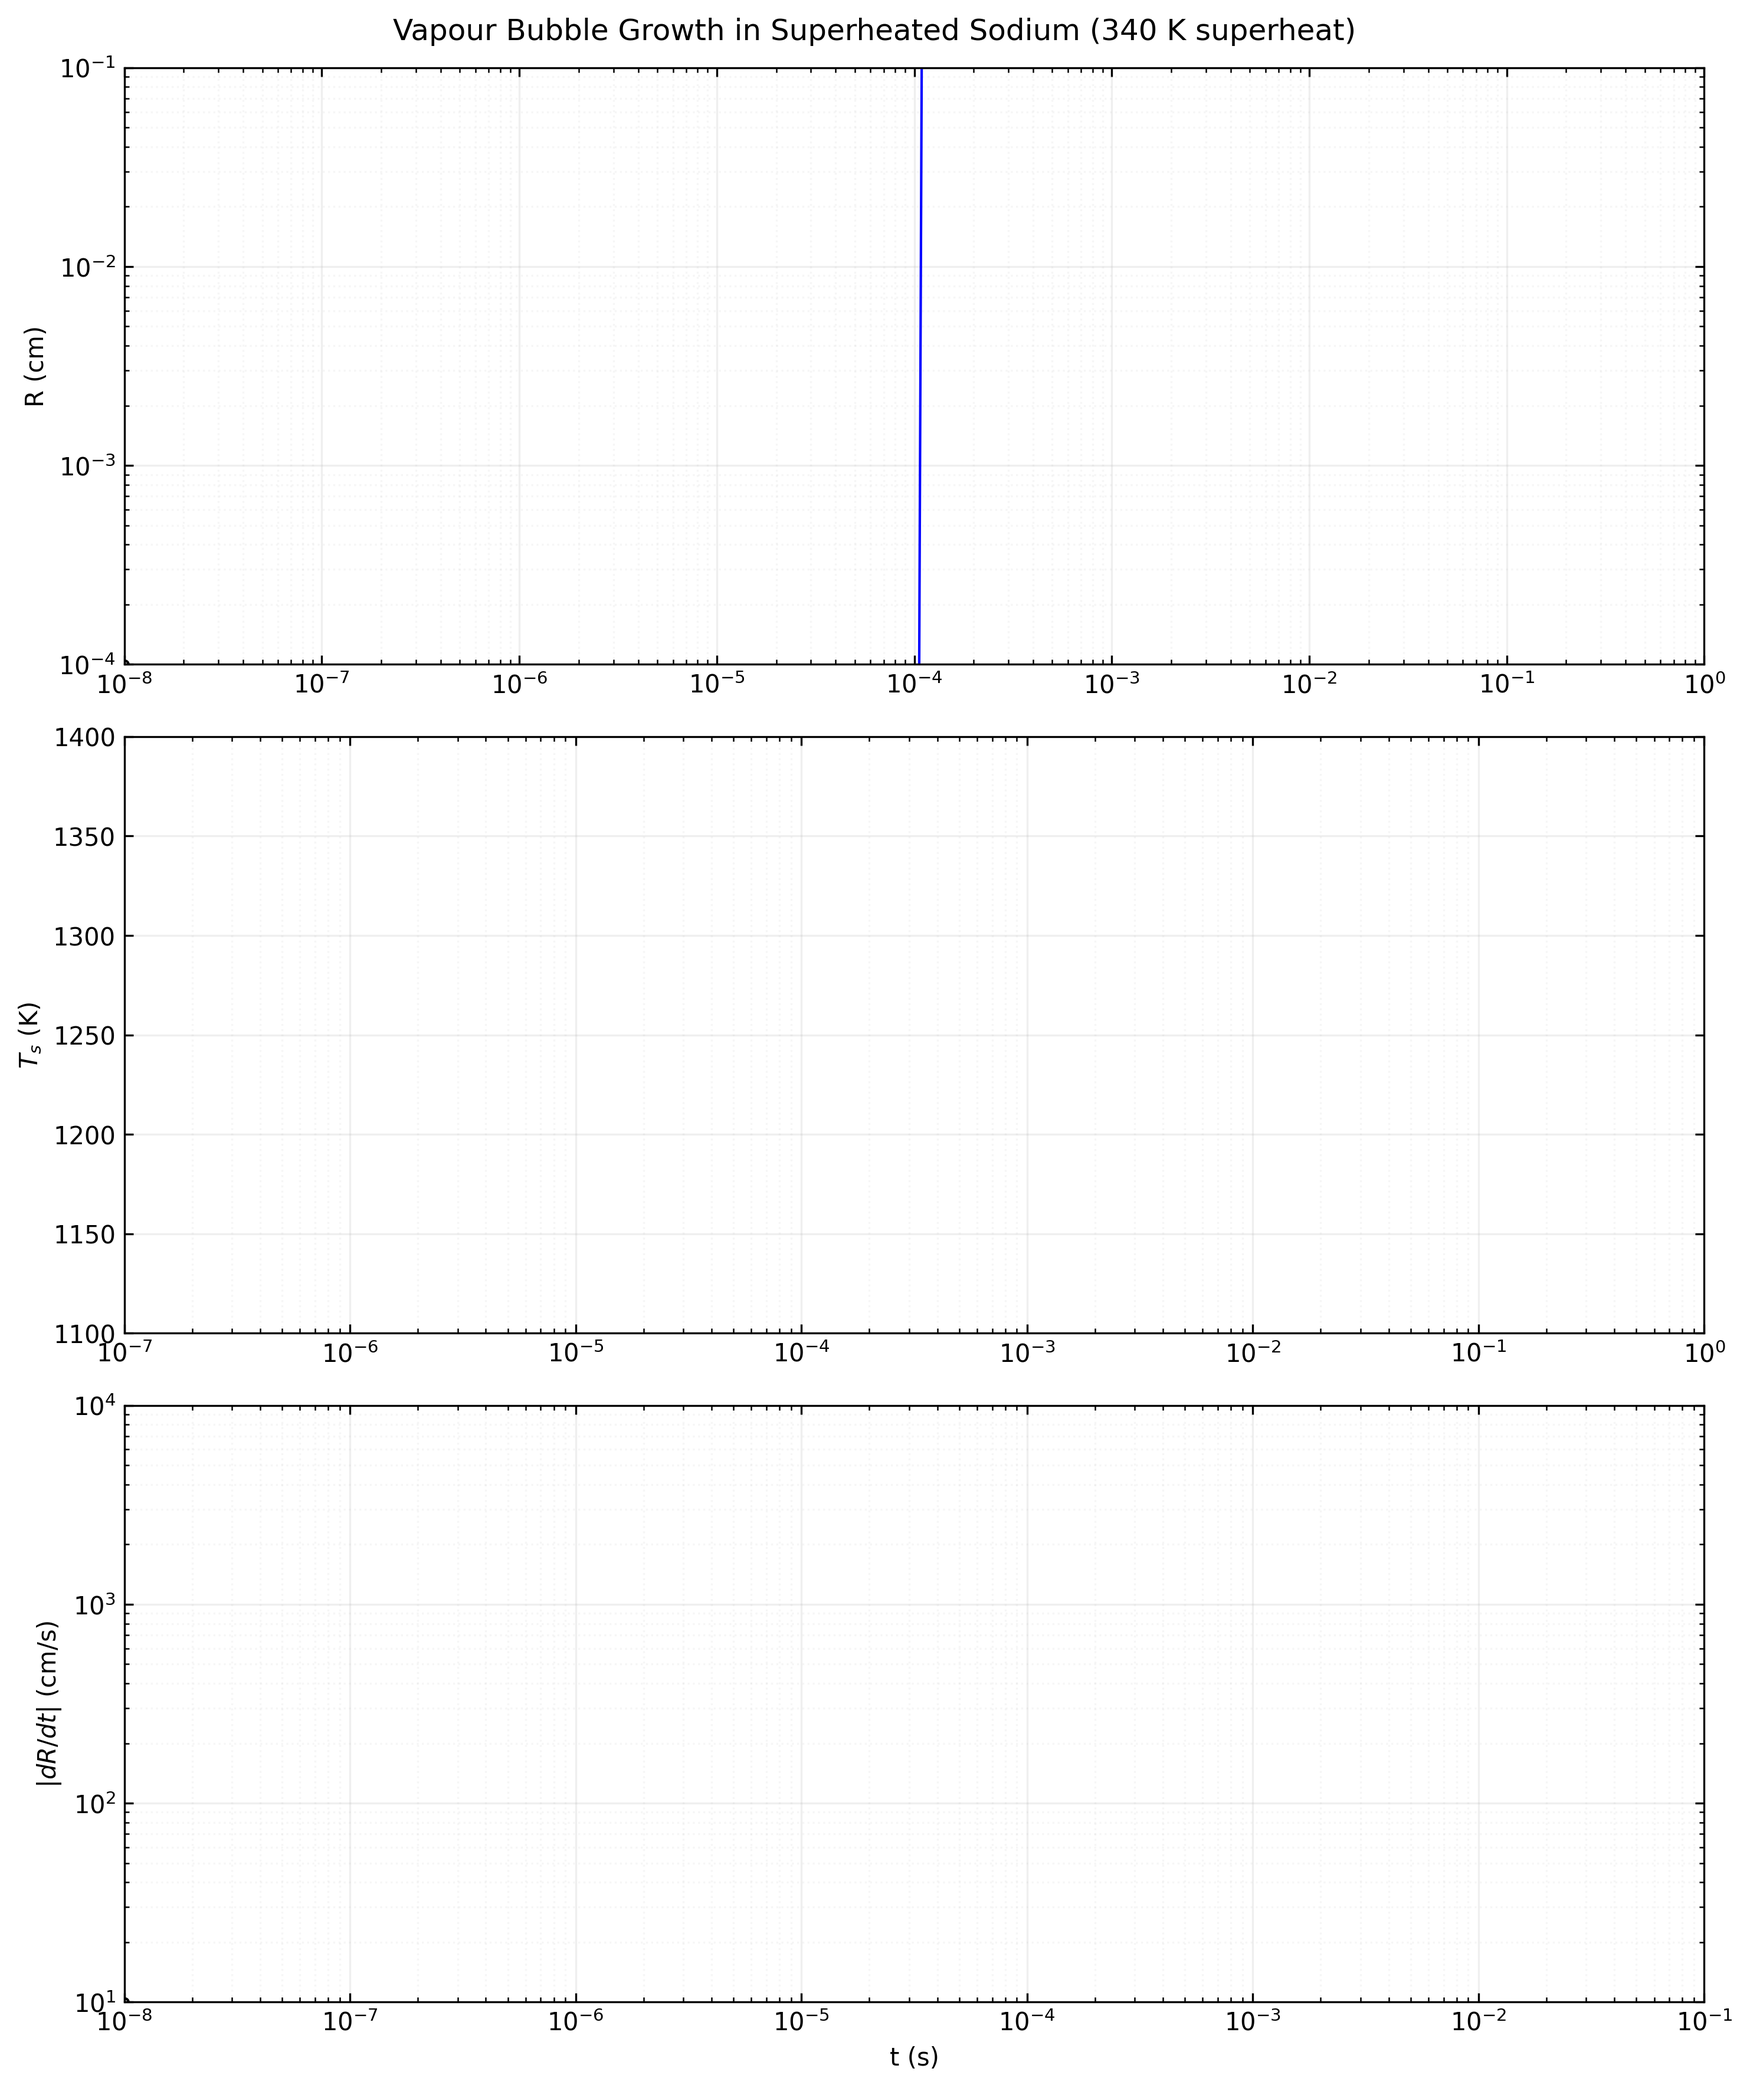
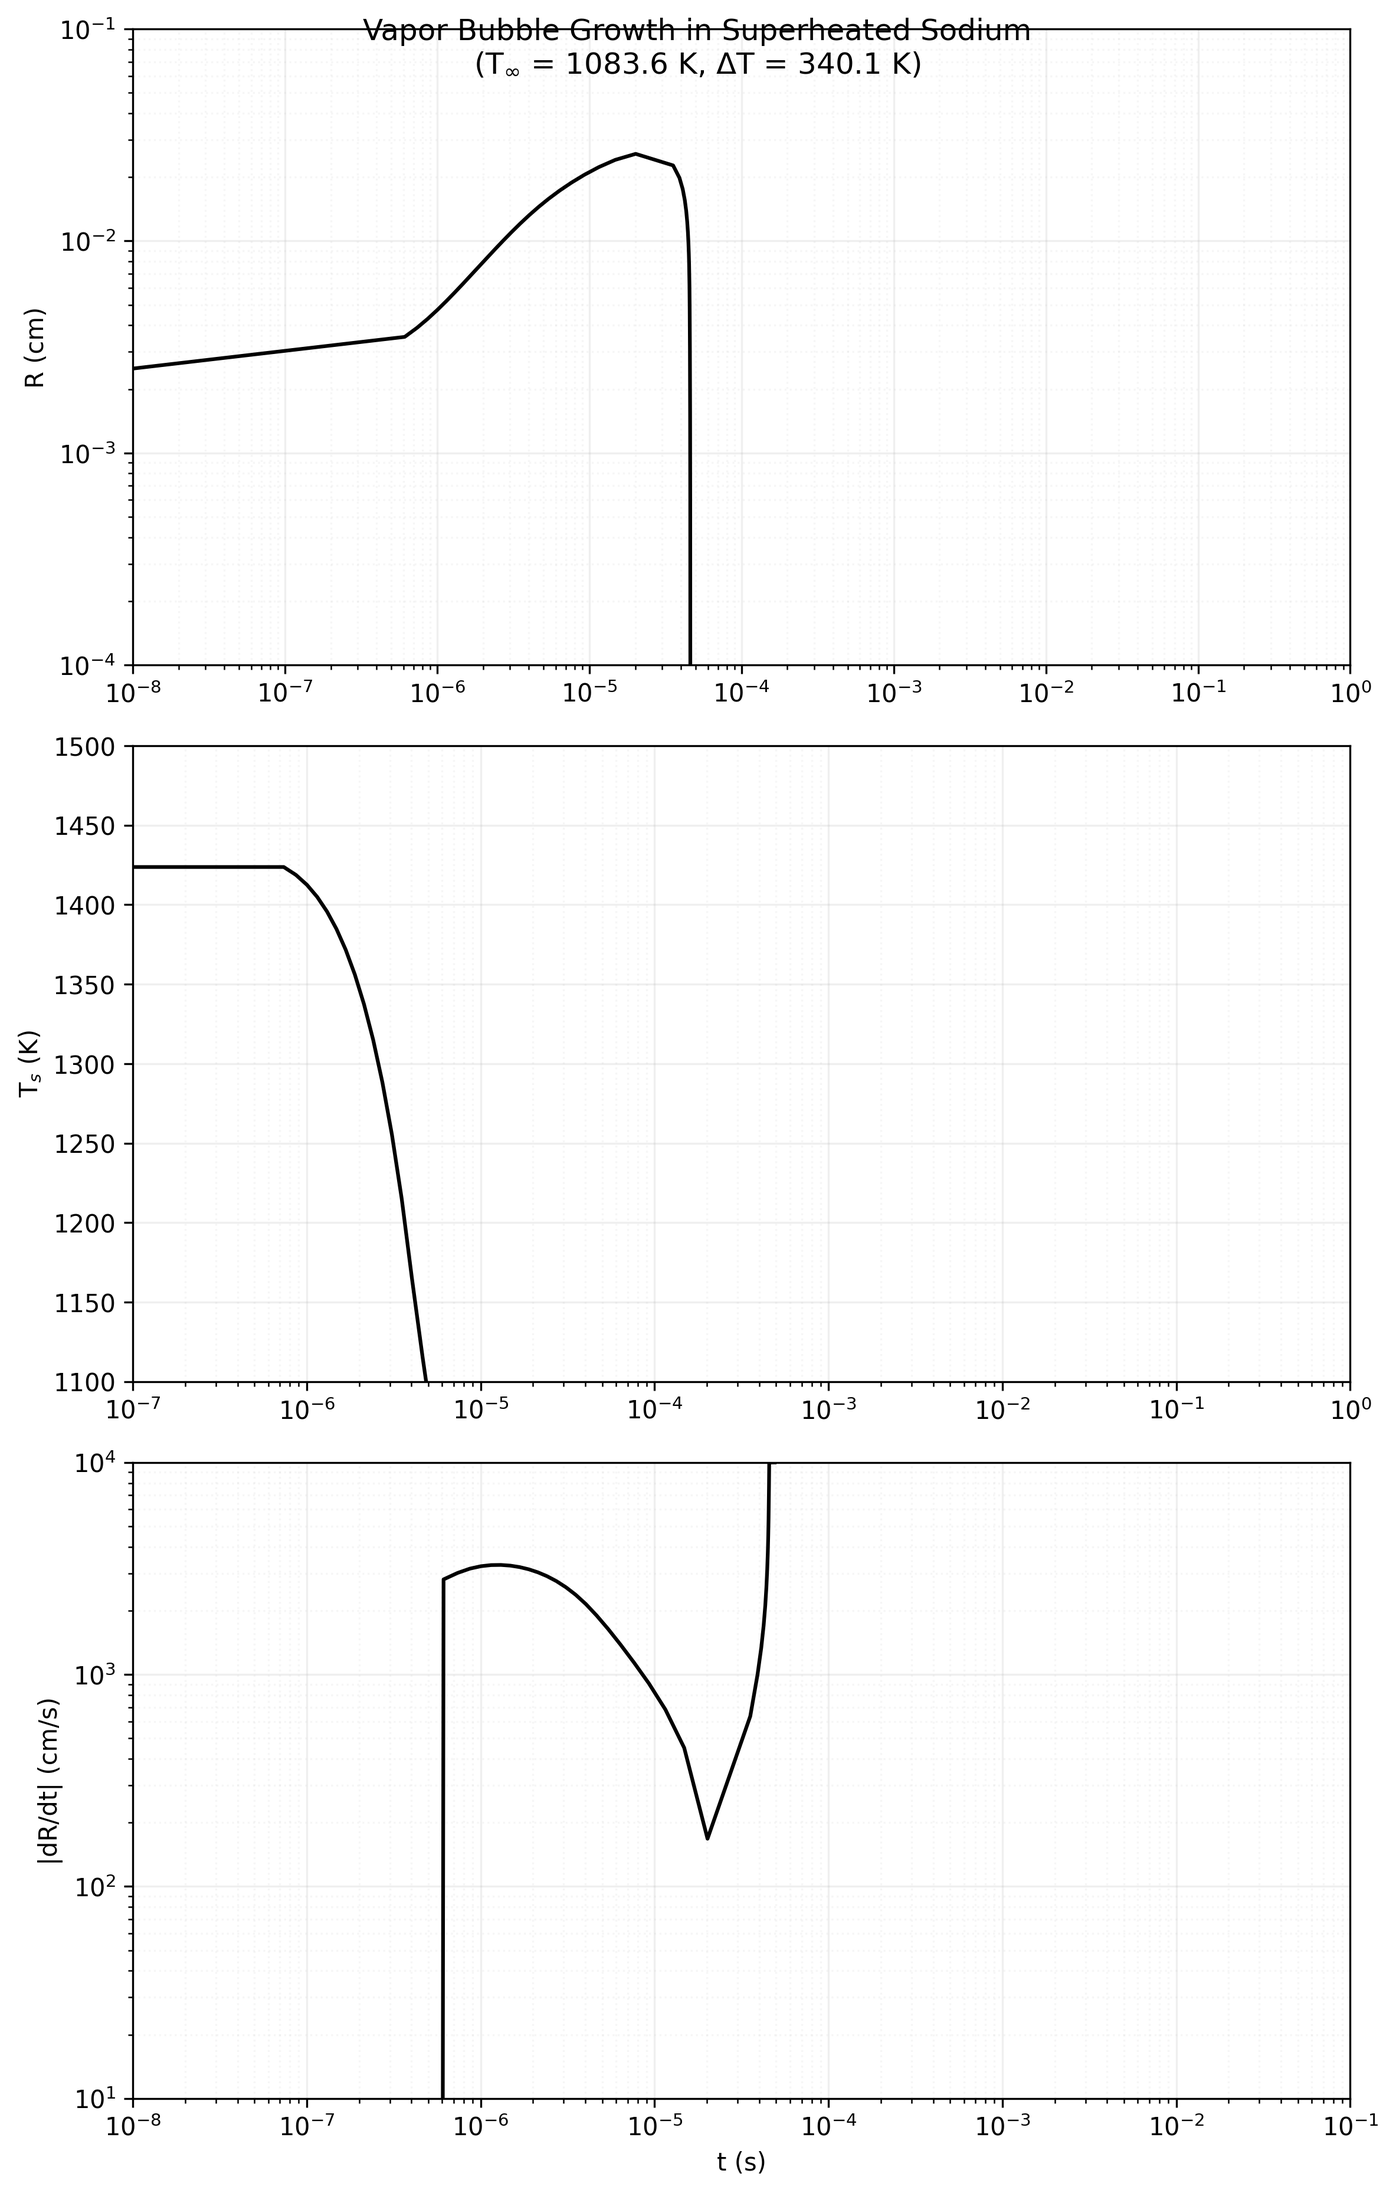
something

diff --git a/gemini result.py b/gemini result.py
@@ -285,20 +285,21 @@ def calculate_temperature_plesset_zwick(t, R_hist, dRdt_hist, t_hist, T_prev):
 # ---------------------------------------------------------------------
 # 1. Physical Constants and Initial Conditions
 # ---------------------------------------------------------------------
-# Constants from Plesset paper Case 1
-T_SUPERHEAT = 340.1  # K
-T_INF = 1083.6  # K (bulk temperature)
+# Update initial conditions
+R0 = 2.5e-5  # m (from paper Case 1)
+V0 = 0.0  # Start from rest
+T_SUPERHEAT = 340.1  # K (Case 1)
+T_INF = 1083.6  # K (Case 1)
 T_LIQUID_INITIAL = T_INF + T_SUPERHEAT
-P_INF = 1.253e5  # Pa
-P_ATM = 1.01325e5  # Pa
+P_INF = 1.253e5  # Pa (Case 1)
 
-# Physical properties (from paper)
+# Physical properties matching paper
 K_L = 71.7  # W/(m·K)
 CP_L = 1380.0  # J/(kg·K)
 RHO_L = 927.0  # kg/m³
 SIGMA = 0.2  # N/m
-D_L = K_L / (RHO_L * CP_L)  # Thermal diffusivity
-L_VAP = 4.1e6  # J/kg (at mean temperature)
+D_L = K_L / (RHO_L * CP_L)
+L_VAP = 4.1e6  # J/kg
 
 # Temperature bounds
 T_MIN = T_INF - 50  # Lower bound
@@ -311,8 +312,6 @@ delta_p = p_v_init - P_INF  # Initial pressure difference
 
 # Critical radius from mechanical equilibrium
 R_crit = 2 * SIGMA / max(delta_p, 1e3)  # Ensure positive value
-R0 = 2.0 * R_crit  # Start with twice critical radius
-V0 = 0.01  # Small initial velocity
 
 # Time stepping parameters
 t_start = 1e-8  # Initial time (s)
@@ -409,44 +408,37 @@ R_plot = R_history * 100  # Convert m to cm
 V_plot = V_history * 100  # Convert m/s to cm/s
 T_plot = Ts_history  # Kelvin
 
-# Create figure with golden ratio
-plt.style.use('seaborn-darkgrid')
-fig = plt.figure(figsize=(8, 13))
+# Create figure without seaborn dependency
+plt.figure(figsize=(8, 13))
 
 # Plot 1: Radius vs time (log-log)
-ax1 = plt.subplot(311)
-ax1.loglog(t_plot, R_plot, 'k-', linewidth=1.5)
-ax1.set_xlim(1e-8, 1)
-ax1.set_ylim(1e-4, 1e-1)
-ax1.set_ylabel('R (cm)')
-ax1.grid(True, which='both', linestyle='-', alpha=0.2)
-ax1.grid(True, which='minor', linestyle=':', alpha=0.1)
-ax1.set_xticklabels([])
+plt.subplot(311)
+plt.loglog(t_plot, R_plot, 'k-', linewidth=1.5)
+plt.xlim(1e-8, 1)
+plt.ylim(1e-4, 1e-1)
+plt.ylabel('R (cm)')
+plt.grid(True, which='both', alpha=0.2)
+plt.grid(True, which='minor', linestyle=':', alpha=0.1)
 
 # Plot 2: Temperature vs time (log-x, linear-y)
-ax2 = plt.subplot(312)
-ax2.semilogx(t_plot, T_plot, 'k-', linewidth=1.5)
-ax2.set_xlim(1e-7, 1)
-ax2.set_ylim(1100, 1500)
-ax2.set_ylabel('T$_s$ (K)')
-ax2.grid(True, which='both', linestyle='-', alpha=0.2)
-ax2.grid(True, which='minor', linestyle=':', alpha=0.1)
-ax2.set_xticklabels([])
+plt.subplot(312)
+plt.semilogx(t_plot, T_plot, 'k-', linewidth=1.5)
+plt.xlim(1e-7, 1)
+plt.ylim(1100, 1500)
+plt.ylabel('T$_s$ (K)')
+plt.grid(True, which='both', alpha=0.2)
+plt.grid(True, which='minor', linestyle=':', alpha=0.1)
 
 # Plot 3: Velocity vs time (log-log)
-ax3 = plt.subplot(313)
-ax3.loglog(t_plot, np.abs(V_plot), 'k-', linewidth=1.5)
-ax3.set_xlim(1e-8, 1e-1)
-ax3.set_ylim(1e1, 1e4)
-ax3.set_xlabel('t (s)')
-ax3.set_ylabel('|dR/dt| (cm/s)')
-ax3.grid(True, which='both', linestyle='-', alpha=0.2)
-ax3.grid(True, which='minor', linestyle=':', alpha=0.1)
+plt.subplot(313)
+plt.loglog(t_plot, np.abs(V_plot), 'k-', linewidth=1.5)
+plt.xlim(1e-8, 1e-1)
+plt.ylim(1e1, 1e4)
+plt.xlabel('t (s)')
+plt.ylabel('|dR/dt| (cm/s)')
+plt.grid(True, which='both', alpha=0.2)
+plt.grid(True, which='minor', linestyle=':', alpha=0.1)
 
-# Common formatting
-for ax in [ax1, ax2, ax3]:
-    ax.tick_params(which='both', direction='in', top=True, right=True)
-    
 plt.suptitle('Vapor Bubble Growth in Superheated Sodium\n' + 
              f'(T$_∞$ = {T_INF:.1f} K, ΔT = {T_SUPERHEAT:.1f} K)', y=0.95)
 plt.tight_layout()
